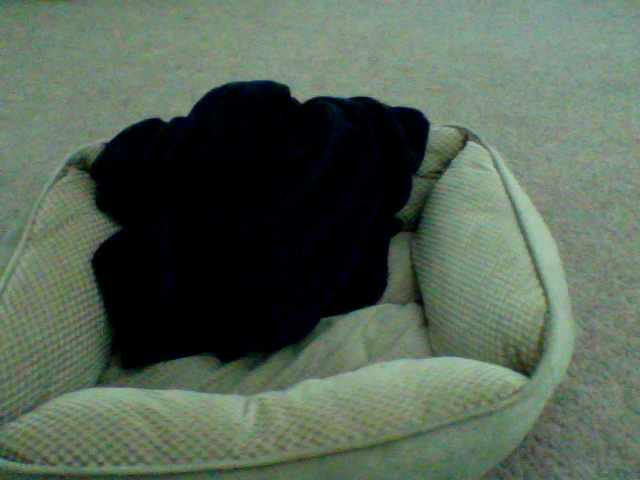
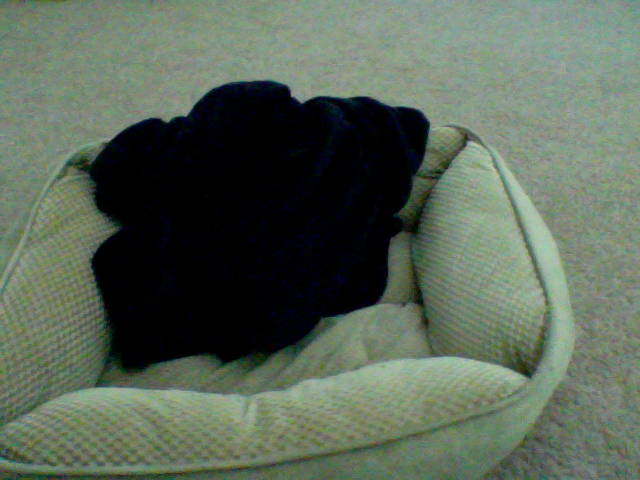
update at Month05Day08Time14:56

diff --git a/index.html b/index.html
@@ -39,8 +39,8 @@
       <!-- Example row of columns -->
       <div class="row">
         <div class="col-md-4">
-	<p>This picture was updated at Month05Day08Time14:55</p>
-		<img src="1_pic.png" />
+	<p>This picture was updated at Month05Day08Time14:56</p>
+		<img src="2_pic.png" />
         </div>
       </div>
 
